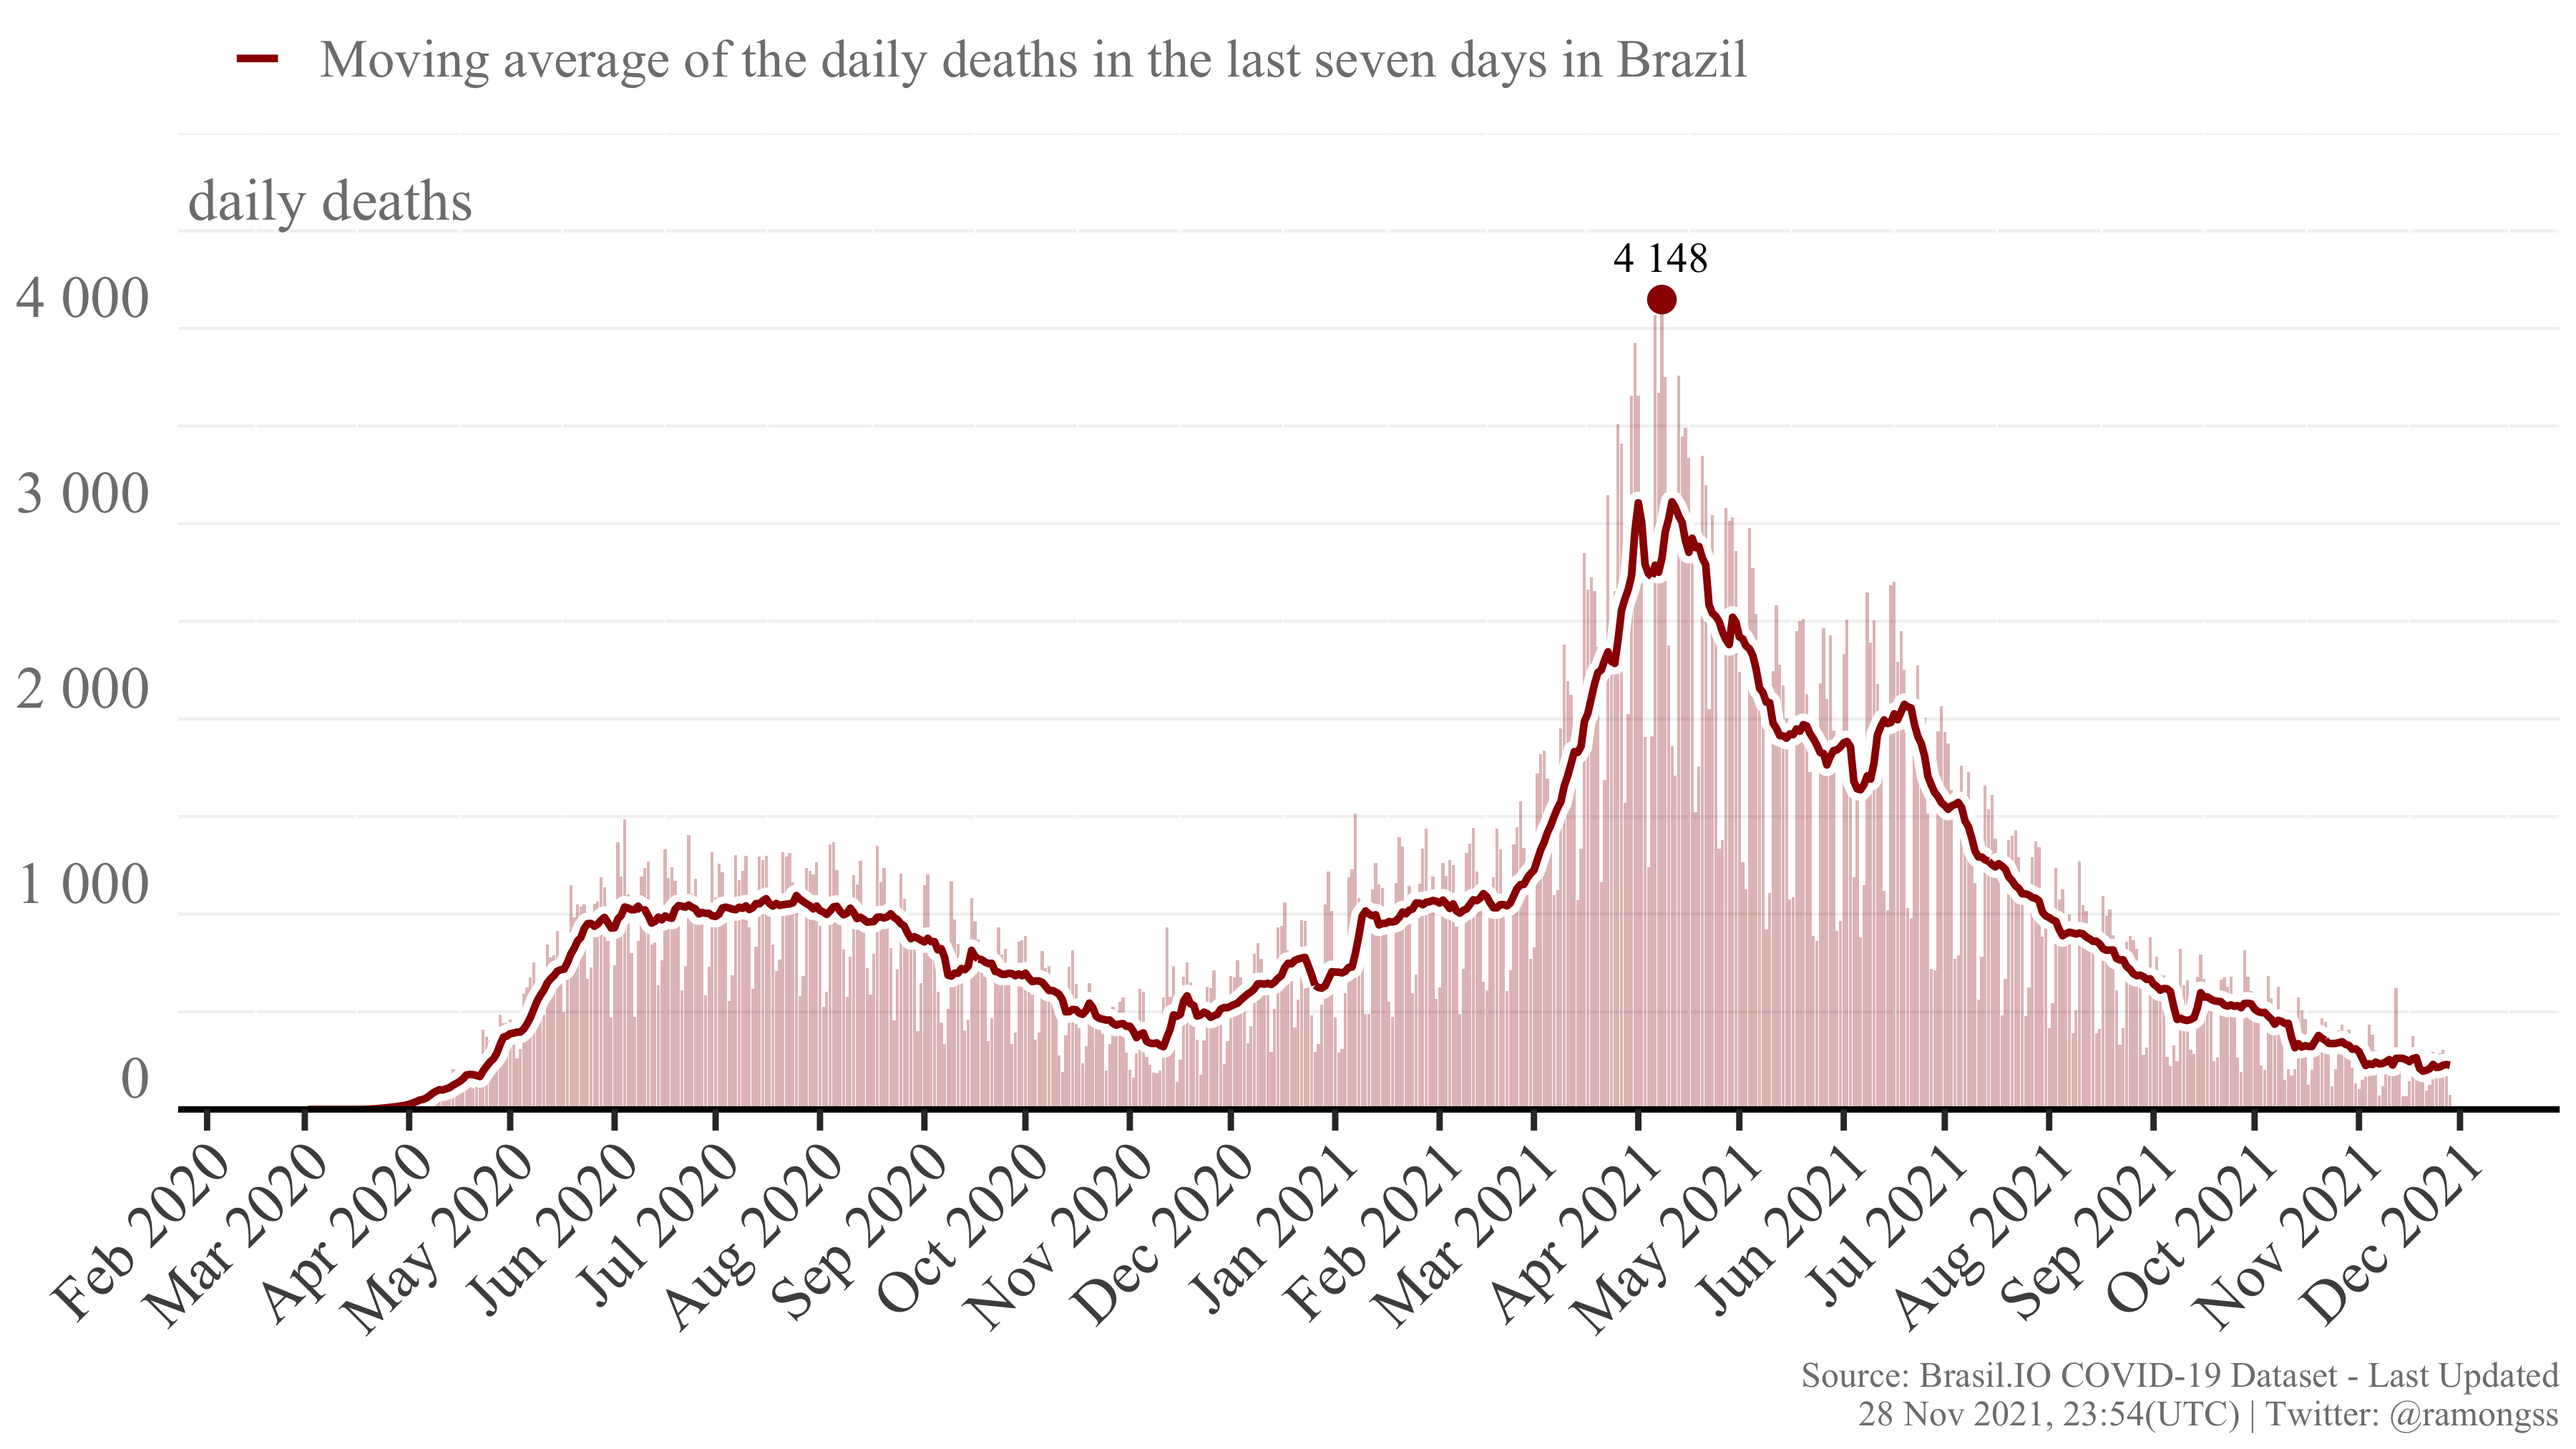
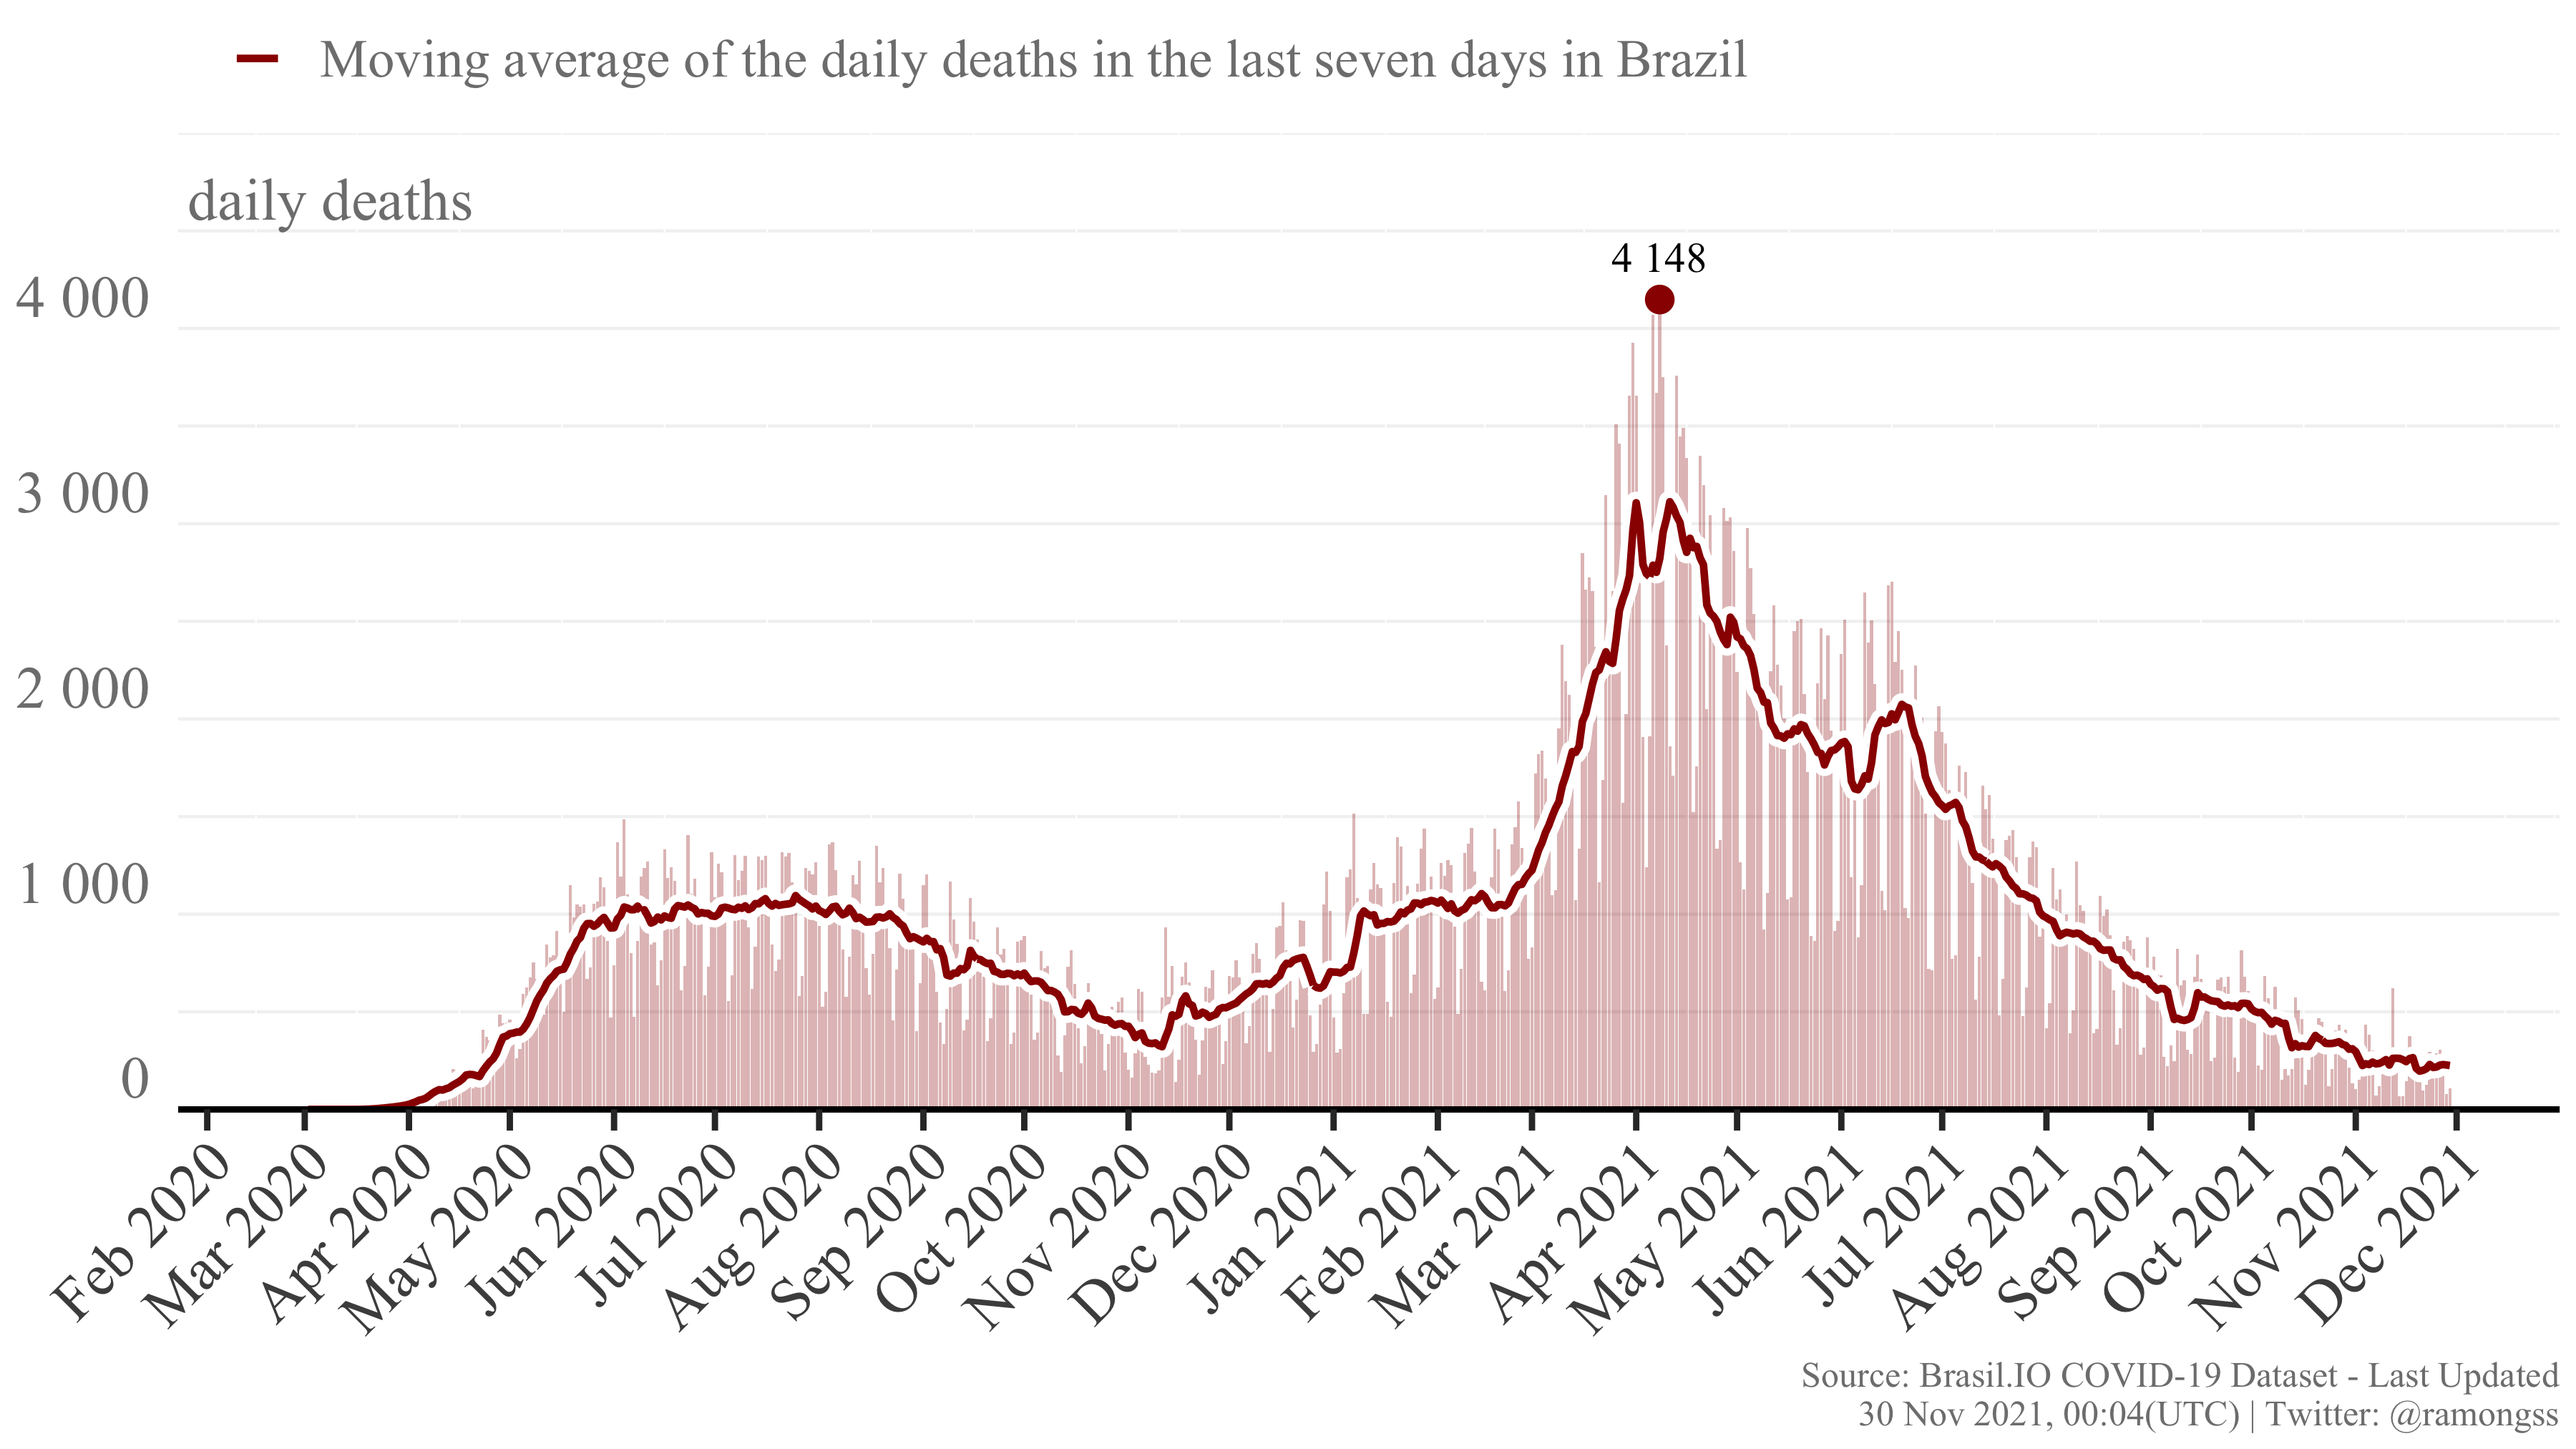
Re-build README.Rmd

diff --git a/README.md b/README.md
@@ -27,8 +27,8 @@ download_brasilio_table <- function(dataset = "covid19", table_name){
 
 ## COVID-19 Confirmed cases
 
-Currently, Brazil has a total of **22,085,131** confirmed cases at **28
-Nov, 2021**, with **3,298** new confirmed cases. The daily maximum
+Currently, Brazil has a total of **22,089,284** confirmed cases at **29
+Nov, 2021**, with **3,915** new confirmed cases. The daily maximum
 incidence was **124,878** confirmed cases at **18 Sep, 2021**. Here
 follows the Figure showing the confirmed case incidence as the bars, and
 the line as the moving average of the last 7 days.
@@ -37,11 +37,11 @@ the line as the moving average of the last 7 days.
 
 ## COVID-19 Deaths
 
-Currently, Brazil has a total of **614,537** deaths at **28 Nov, 2021**,
-with **76** new deaths. The daily maximum deaths incidence was **4,148**
-deaths at **08 Apr, 2021**. Here follows the Figure showing the deaths
-incidence as the bars, and the line as the moving average of the last 7
-days.
+Currently, Brazil has a total of **614,650** deaths at **29 Nov, 2021**,
+with **109** new deaths. The daily maximum deaths incidence was
+**4,148** deaths at **08 Apr, 2021**. Here follows the Figure showing
+the deaths incidence as the bars, and the line as the moving average of
+the last 7 days.
 
 ![COVID-19 Deaths](figures/deaths.png)
 
@@ -49,4 +49,4 @@ days.
 
 This page is daily updated automatically using Github Actions.
 
-*Last update: 28 Nov 2021, 23:54 (UTC).*
+*Last update: 30 Nov 2021, 00:04 (UTC).*
